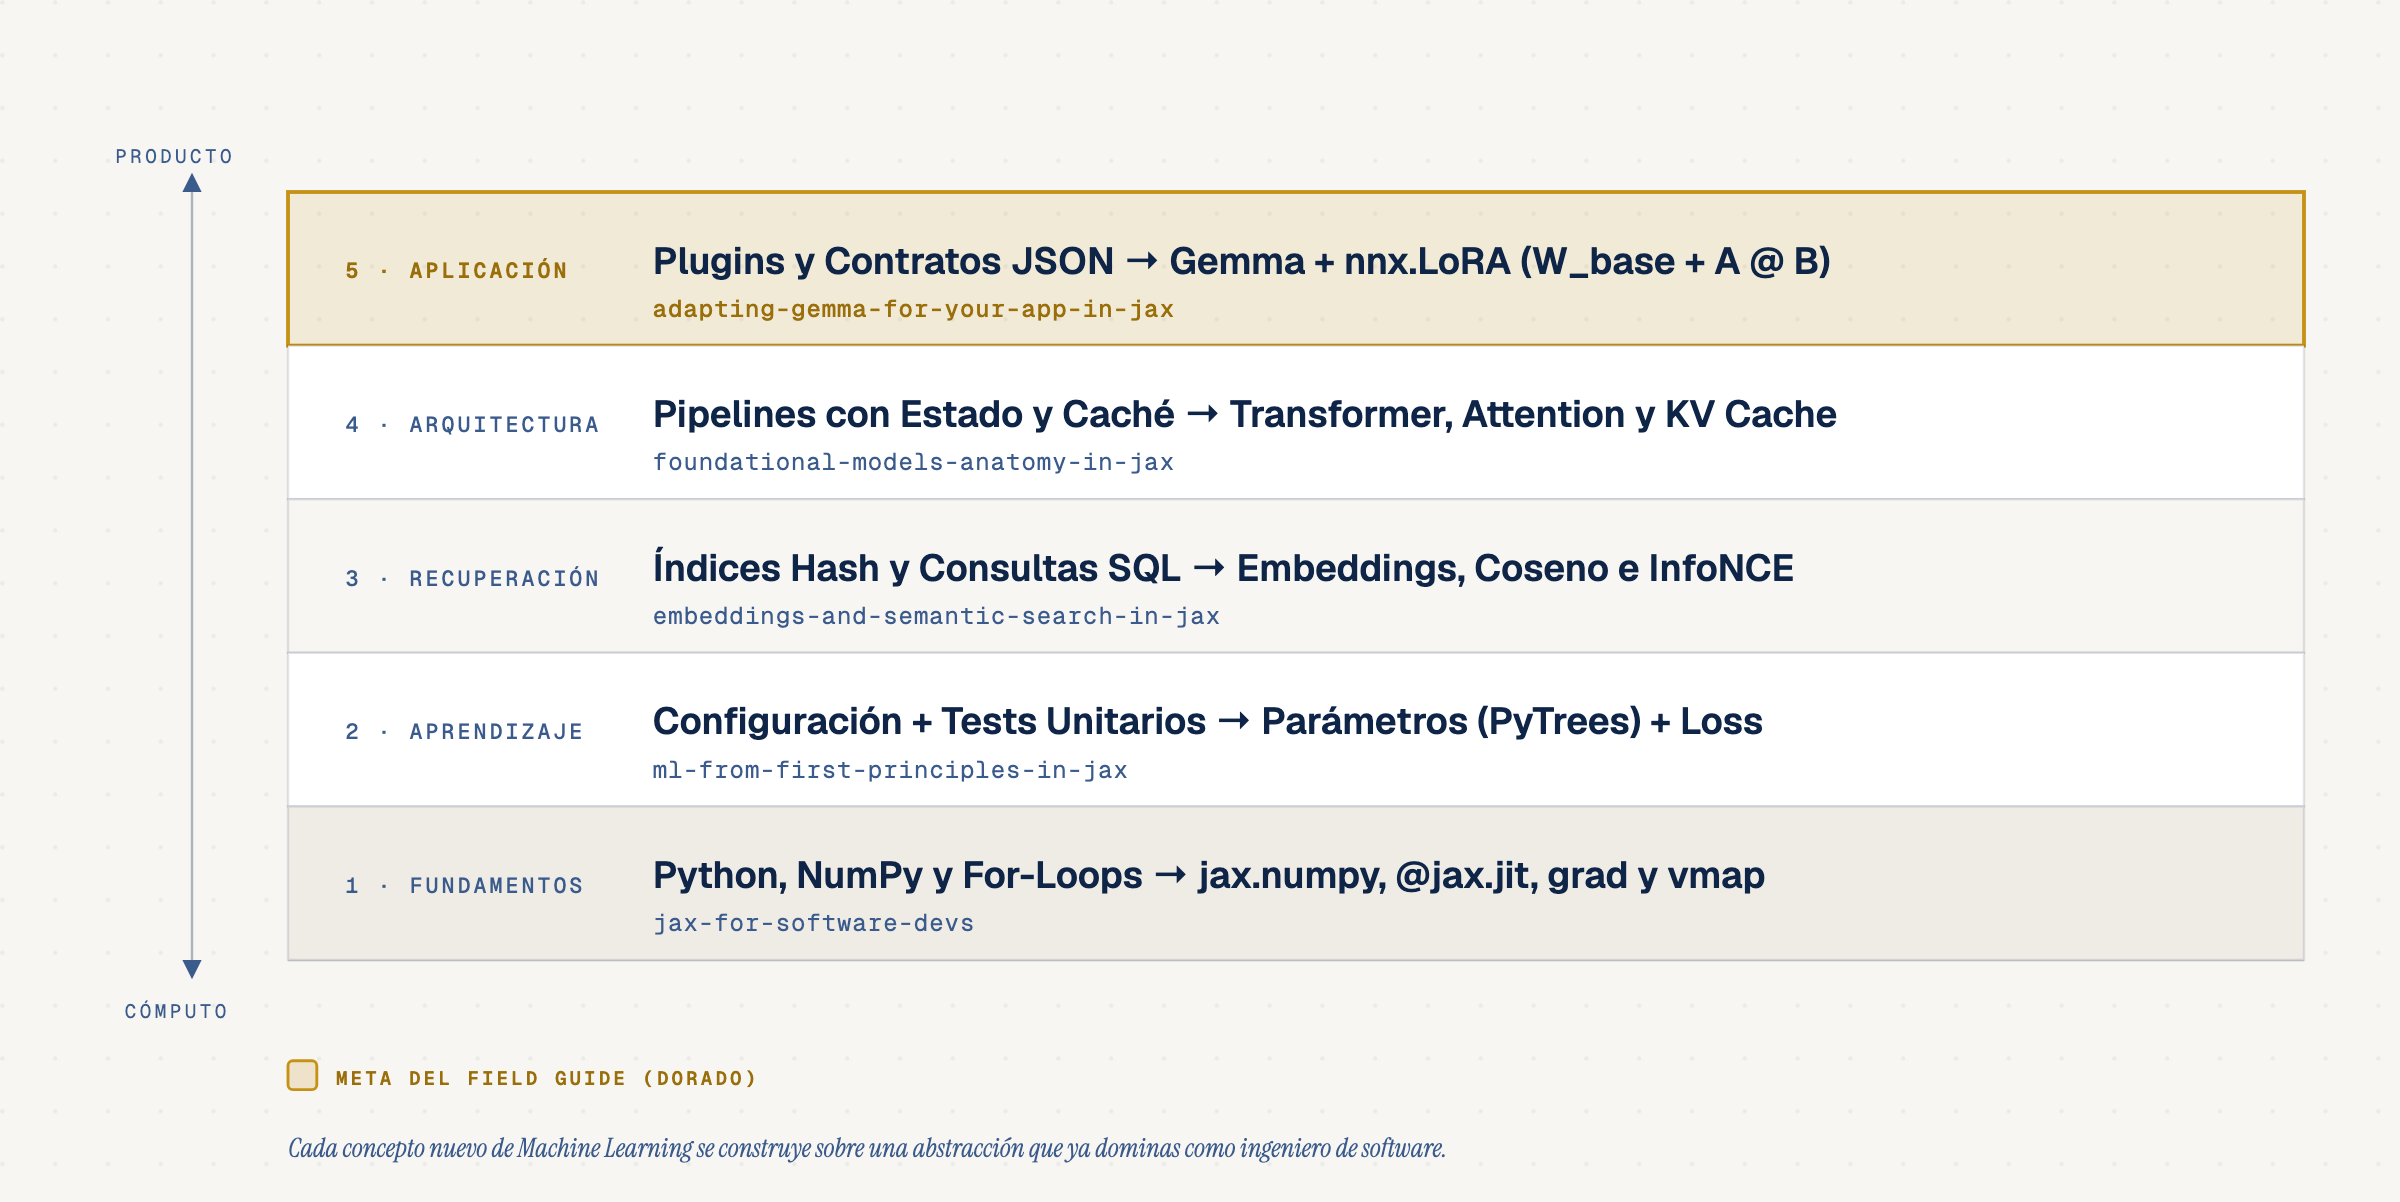
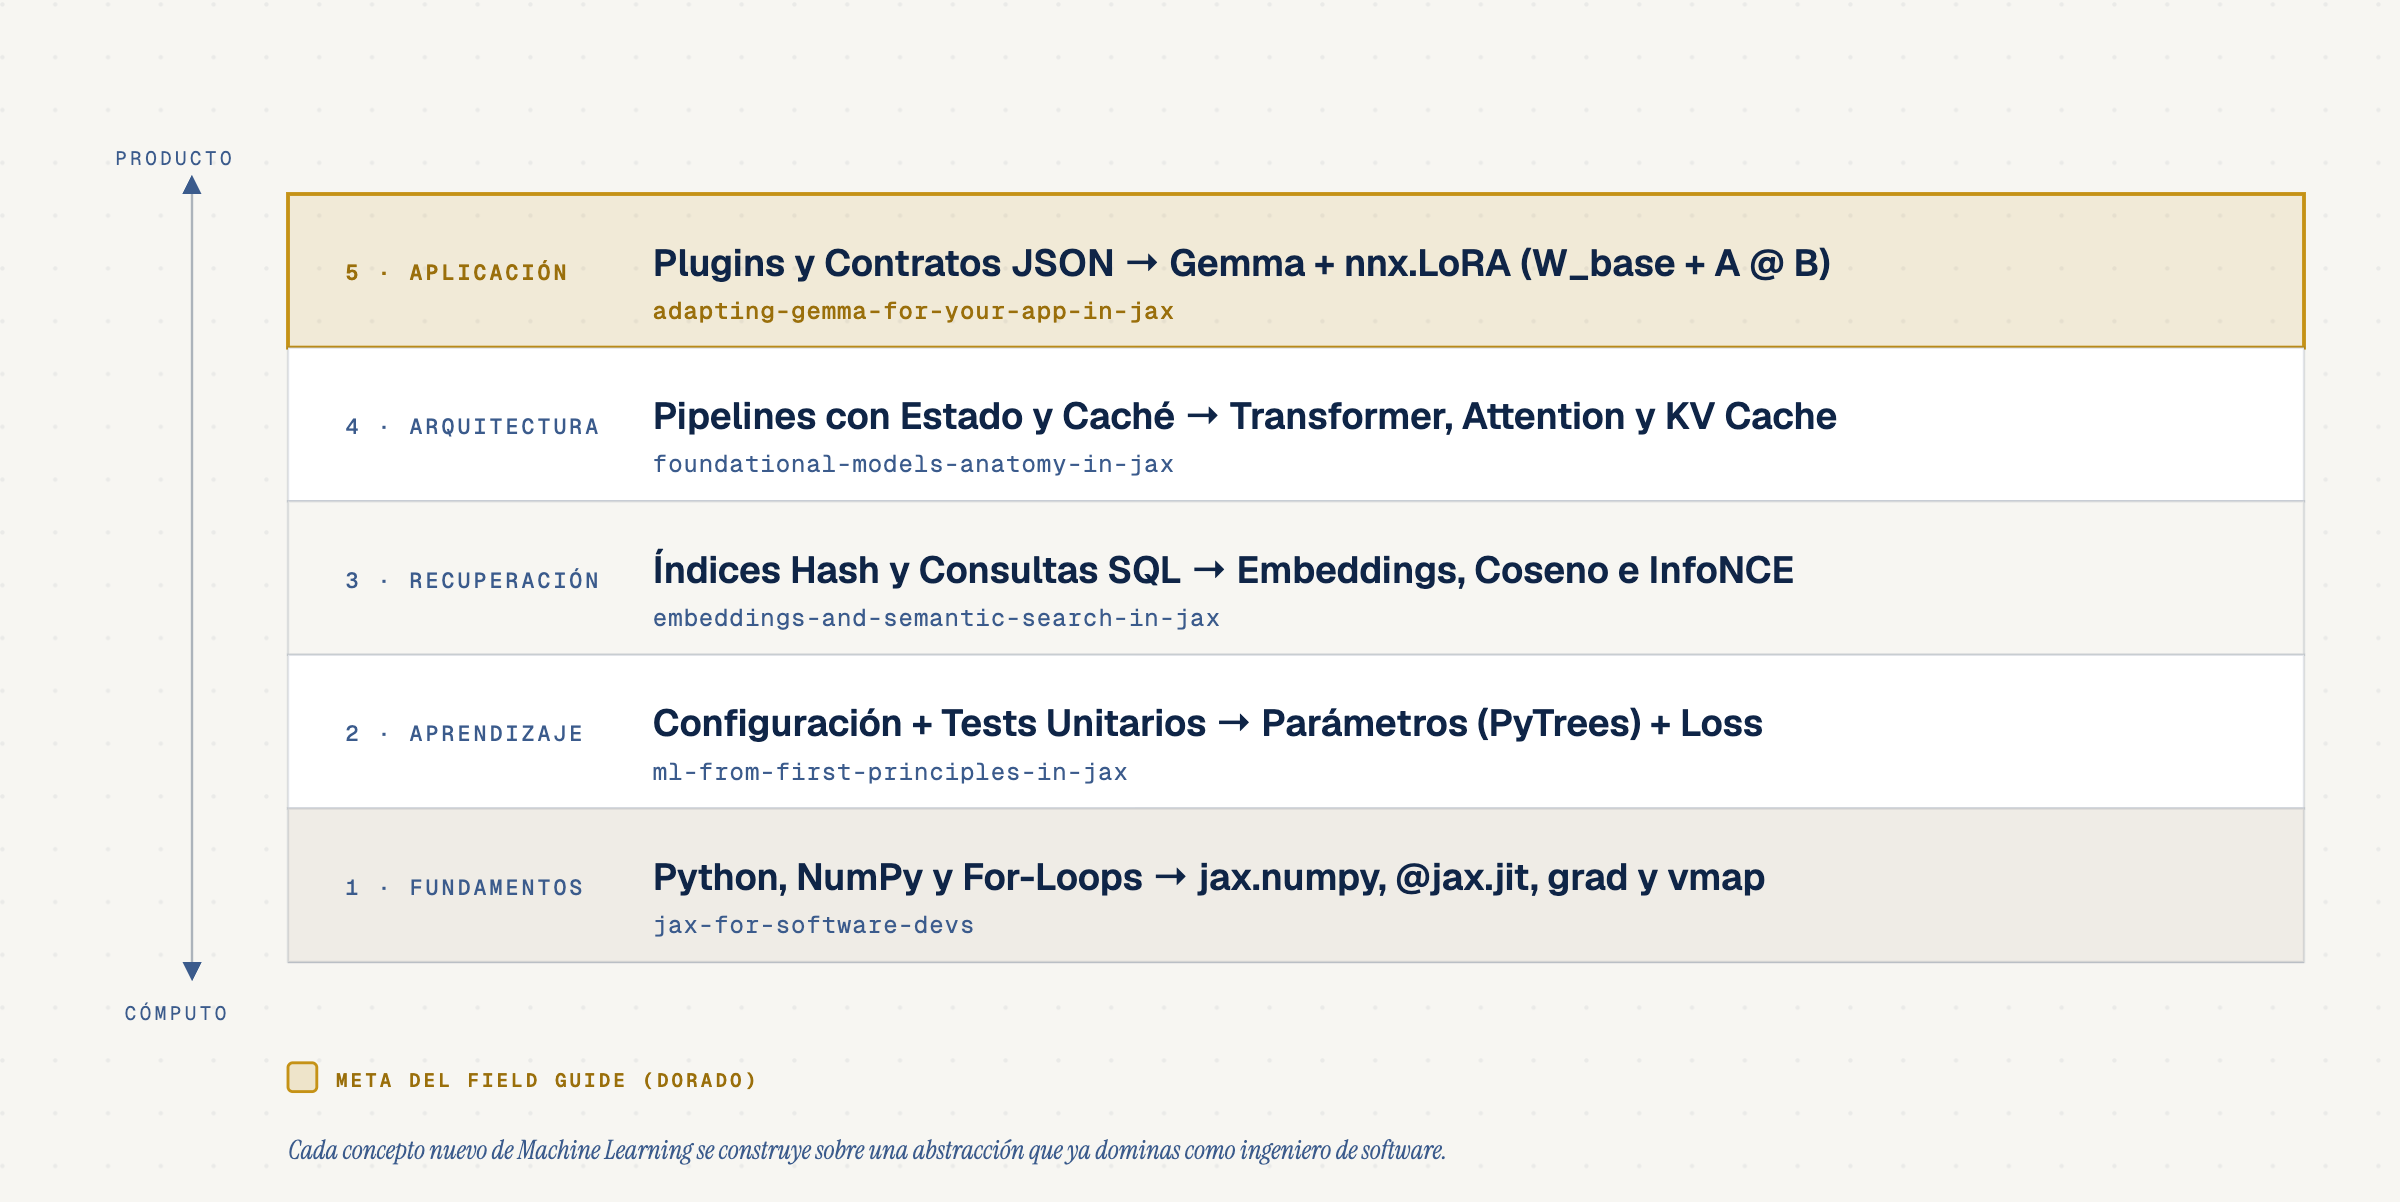
Nombre público ML desde bases en README, juez y diagramas

diff --git a/diagrams/01-software-to-ml-mental-bridge.html b/diagrams/01-software-to-ml-mental-bridge.html
@@ -107,7 +107,7 @@
         <text x="272" y="242" fill="#0F2547" font-size="15.5" font-weight="600" font-family="'Geist', sans-serif">Índices Hash y Consultas SQL → Embeddings, Coseno e InfoNCE</text>
         <text x="272" y="260" fill="#3B5B8C" font-size="10" font-family="'Geist Mono', monospace" letter-spacing="0.04em">embeddings-and-semantic-search-in-jax</text>
 
-        <!-- 2 — ML desde Primeros Principios -->
+        <!-- 2 — ML desde bases -->
         <rect x="120" y="272" width="840" height="64" fill="#FFFFFF" stroke="rgba(15,37,71,0.12)" stroke-width="1"/>
         <text x="144" y="308" fill="#3B5B8C" font-size="9" font-family="'Geist Mono', monospace" letter-spacing="0.14em" font-weight="500">2 · APRENDIZAJE</text>
         <text x="272" y="306" fill="#0F2547" font-size="15.5" font-weight="600" font-family="'Geist', sans-serif">Configuración + Tests Unitarios → Parámetros (PyTrees) + Loss</text>

diff --git a/diagrams/02-learning-roadmap.html b/diagrams/02-learning-roadmap.html
@@ -135,7 +135,7 @@
 
         <!-- 2: ml-from-first-principles-in-jax -->
         <rect x="640" y="244" width="320" height="64" rx="6" fill="#FFFFFF" stroke="#0F2547" stroke-width="1"/>
-        <text x="800" y="268" fill="#0F2547" font-size="13" font-weight="600" font-family="'Geist', sans-serif" text-anchor="middle">2 · ML desde Primeros Principios</text>
+        <text x="800" y="268" fill="#0F2547" font-size="13" font-weight="600" font-family="'Geist', sans-serif" text-anchor="middle">2 · ML desde bases</text>
         <text x="800" y="288" fill="#3B5B8C" font-size="9.5" font-family="'Geist Mono', monospace" text-anchor="middle">ml-from-first-principles-in-jax · PyTrees</text>
 
         <!-- 3: embeddings-and-semantic-search-in-jax -->

diff --git a/README.md b/README.md
@@ -1,7 +1,7 @@
 # Field Guide: De Software Dev a Machine Learning y Foundational Models con JAX en Google Cloud
 
 - **Por qué es relevante:** Construir, evaluar y adaptar modelos fundacionales como `Gemma` requiere las mismas disciplinas de ingeniería de software que ya aplicas en producción (funciones puras, contratos de tipos, suites de regresión deterministas y servidores HTTP sin estado), ejecutadas sobre el compilador `OpenXLA` en CPU, GPU y `Cloud TPU`.
-- **Para quién es:** Ingenieros de software, desarrolladores backend, arquitectos de sistemas y científicos de datos que dominan Python y `NumPy`, y quieren aprender Machine Learning y Foundational Models desde primeros principios con `JAX` y `Flax NNX` sin pasar primero por `PyTorch`.
+- **Para quién es:** Ingenieros de software, desarrolladores backend, arquitectos de sistemas y científicos de datos que dominan Python y `NumPy`, y quieren aprender Machine Learning y Foundational Models desde las bases con `JAX` y `Flax NNX` sin pasar primero por `PyTorch`.
 - **Quién debería verlo:** Equipos técnicos que buscan integrar búsqueda semántica, clasificación o extracción estructurada con `Gemma` y adaptadores `LoRA` dentro de sus aplicaciones en Google Cloud (`Vertex AI`, `Cloud TPU v5e` y `Cloud Run` con escala a cero).
 - **¿Ya vienes de PyTorch?** Si ya entrenas modelos con `torch.nn.Module` a diario y buscas migrar o acelerar tus cargas en `OpenXLA`, ve directo al [Field Guide: De PyTorch a JAX y OpenXLA en Google Cloud](https://github.com/ykro/jax-openxla-field-guide).
 
